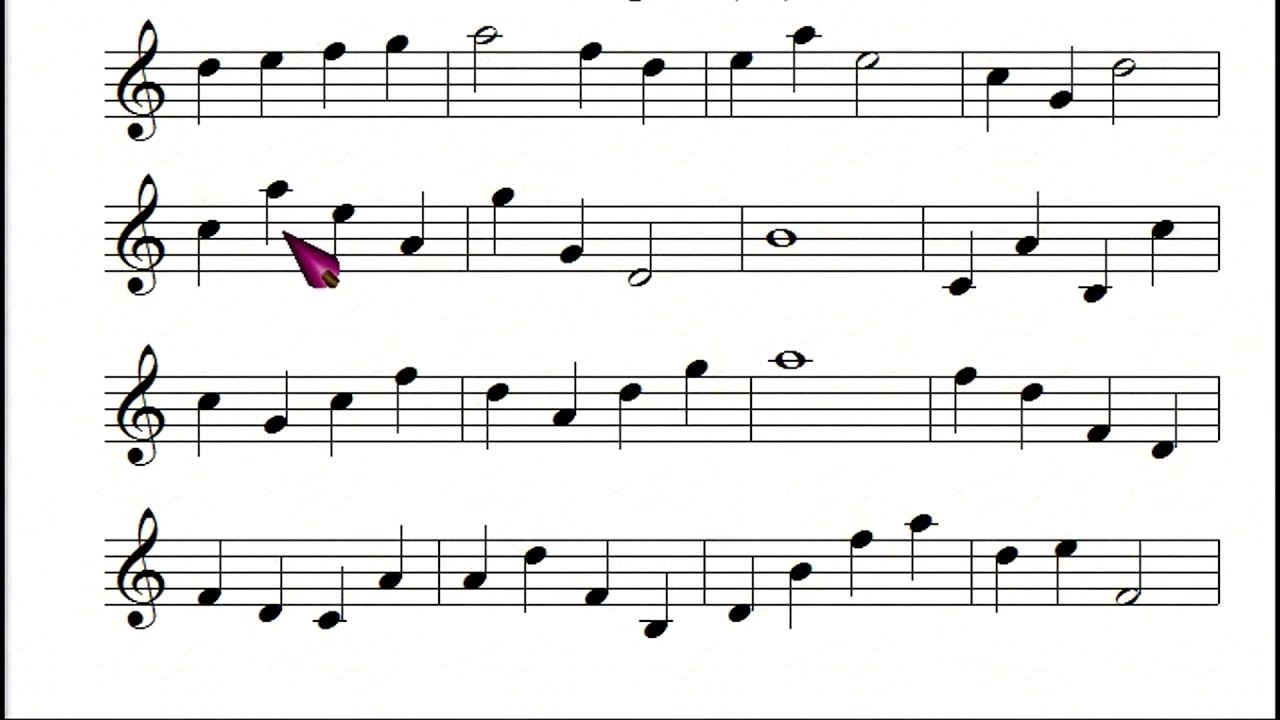
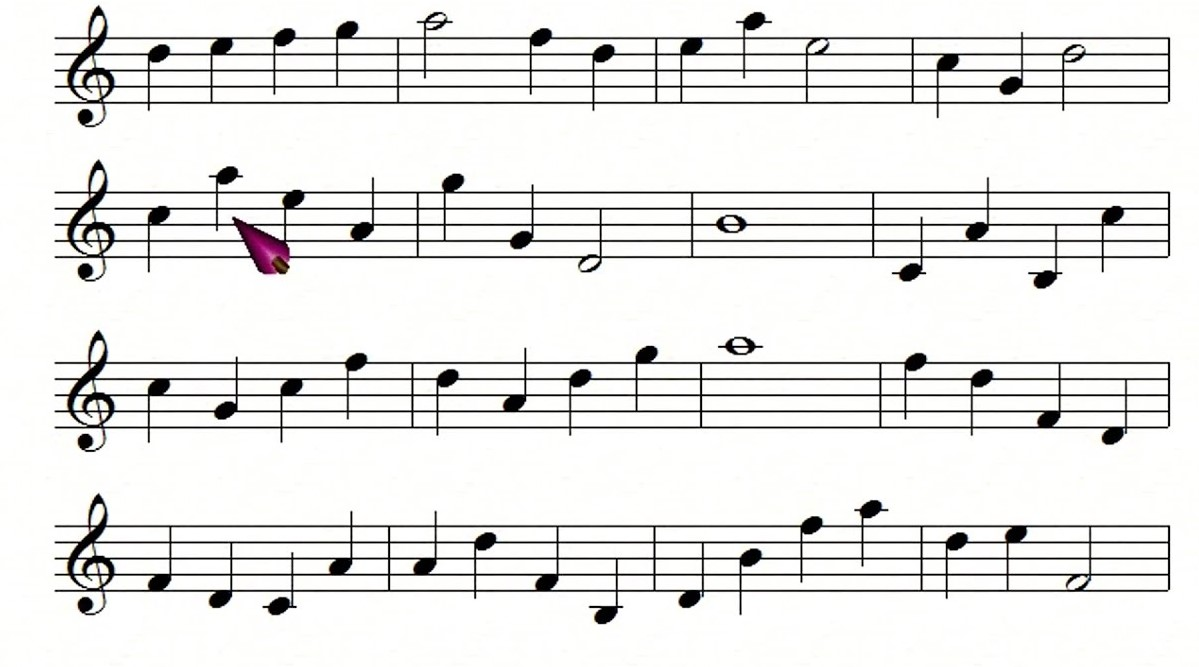
Add some processed pictures

Changed region(s): [[0.0, 0.0, 1.0, 1.0]]

diff --git a/Source/LineDetector.py b/Source/LineDetector.py
@@ -16,7 +16,7 @@ class LineDetector:
 
     rhoAccuracy = 0.5
     thetaAccuracy = np.pi / 360
-    threshold = 650
+    threshold = 800
     linesColor = (0, 0, 255)
     angle = 0
 
@@ -26,17 +26,17 @@ class LineDetector:
         self.linesImage = self.drawLines(self.imageReader.image)
         self.noLinesImage = self.removeLines(self.imageReader.binImage)
         self.angle = self.findAngle()
-        self.rotatedImage = self.rotate_bound(self.imageReader.image, self.angle)
+        self.rotatedImage = self.rotate_bound(self.imageReader.binImage, self.angle)
 
     def findAngle(self):
-        lines = self.simpleLines
+        lines = cv2.HoughLines(self.imageReader.binImage, self.rhoAccuracy, self.thetaAccuracy, self.threshold)
         angle = lines[0][0][1]
         angle = np.rad2deg(angle) - 90
         return -angle
 
     def findLines(self):
         lines = []
-        while len(lines) < 5:
+        while not lines:
             self.threshold -= 50
             lines = cv2.HoughLines(self.imageReader.binImage, self.rhoAccuracy, self.thetaAccuracy, self.threshold)
             self.simpleLines = lines
@@ -129,3 +129,6 @@ class LineDetector:
         plt.figure(figsize=(10, 10))
         io.imshow(self.rotatedImage)
         plt.show()
+
+    def getRotatedImage(self):
+        return self.rotatedImage

diff --git a/Source/ImReader.py b/Source/ImReader.py
@@ -31,16 +31,15 @@ class ImReader:
         MIN = np.min(binImage)
         MAX = np.max(binImage)
 
-        norm = (binImage - MIN) / (MAX - MIN)
-        norm[norm[:, :] > 1] = 1
-        norm[norm[:, :] < 0] = 0
+        for i in range(len(binImage)):
+            for j in range(len(binImage[i])):
+                k = (binImage[i][j] - MIN) / (MAX - MIN)
+                if k < 0.5:
+                    binImage[i][j] = 255
+                else:
+                    binImage[i][j] = 0
 
-        perc2 = 15
-        limit = np.percentile(norm, perc2)
-        norm[norm[:, :] >= limit] = 255
-        norm[norm[:, :] < limit] = 0
-
-        binImage = np.uint8(norm)
+        #binImage = np.uint8(binImage)
         return binImage
 
     def BIN2EDGES(self, bImg):
@@ -64,7 +63,7 @@ class ImReader:
 
     def showBinImage(self):
         plt.figure(figsize=(10, 10))
-        io.imshow(self.binImage, cmap='gray')
+        io.imshow(self.binImage)
         plt.show()
 
 

diff --git a/Source/main.py b/Source/main.py
@@ -6,8 +6,10 @@ from NotesRecognizer import *
 if __name__ == "__main__":
     NewImage = ImReader("../Resources/easy/e1.jpg")
     NewDetector = LineDetector(NewImage)
-    NewDetector.showRotatedImage()
-    NewImage = ImReader("../Resources/easy/e2.jpg")
+    NewShapeDetector = ShapeDetector(NewImage.binImage)
+    NewRecognizer = NotesRecognizer(NewDetector, NewShapeDetector)
+    NewImage.showBinImage()
+    """NewImage = ImReader("../Resources/easy/e2.jpg")
     NewDetector = LineDetector(NewImage)
     NewDetector.showRotatedImage()
     NewImage = ImReader("../Resources/easy/e3.jpg")
@@ -21,4 +23,4 @@ if __name__ == "__main__":
     NewDetector.showRotatedImage()
     NewImage = ImReader("../Resources/easy/e6.jpg")
     NewDetector = LineDetector(NewImage)
-    NewDetector.showRotatedImage()
+    NewDetector.showRotatedImage()"""

diff --git a/Source/NotesRecognizer.py b/Source/NotesRecognizer.py
@@ -25,7 +25,7 @@ class NotesRecognizer:
                     9: "D"}
 
     def __init__(self, LineDetector, ShpaeDetector):
-        image = Image.open("../Resources/notes5.jpg")
+        image = Image.open("../Resources/e1.jpg")
         draw = ImageDraw.Draw(image)
         color = 'rgb(255, 0, 255)'
         self.LineDetector = LineDetector
@@ -38,8 +38,8 @@ class NotesRecognizer:
             for line in staff:
                 print(line.b)
             print("--------------")
-        self.recognizeNote(draw, color)
-        image.save('notes_5.jpg')
+        #self.recognizeNote(draw, color)
+        #image.save('notes_1.jpg')
 
     def avgDistBetweenLines(self):
         self.getDistances(self.imageLines)
